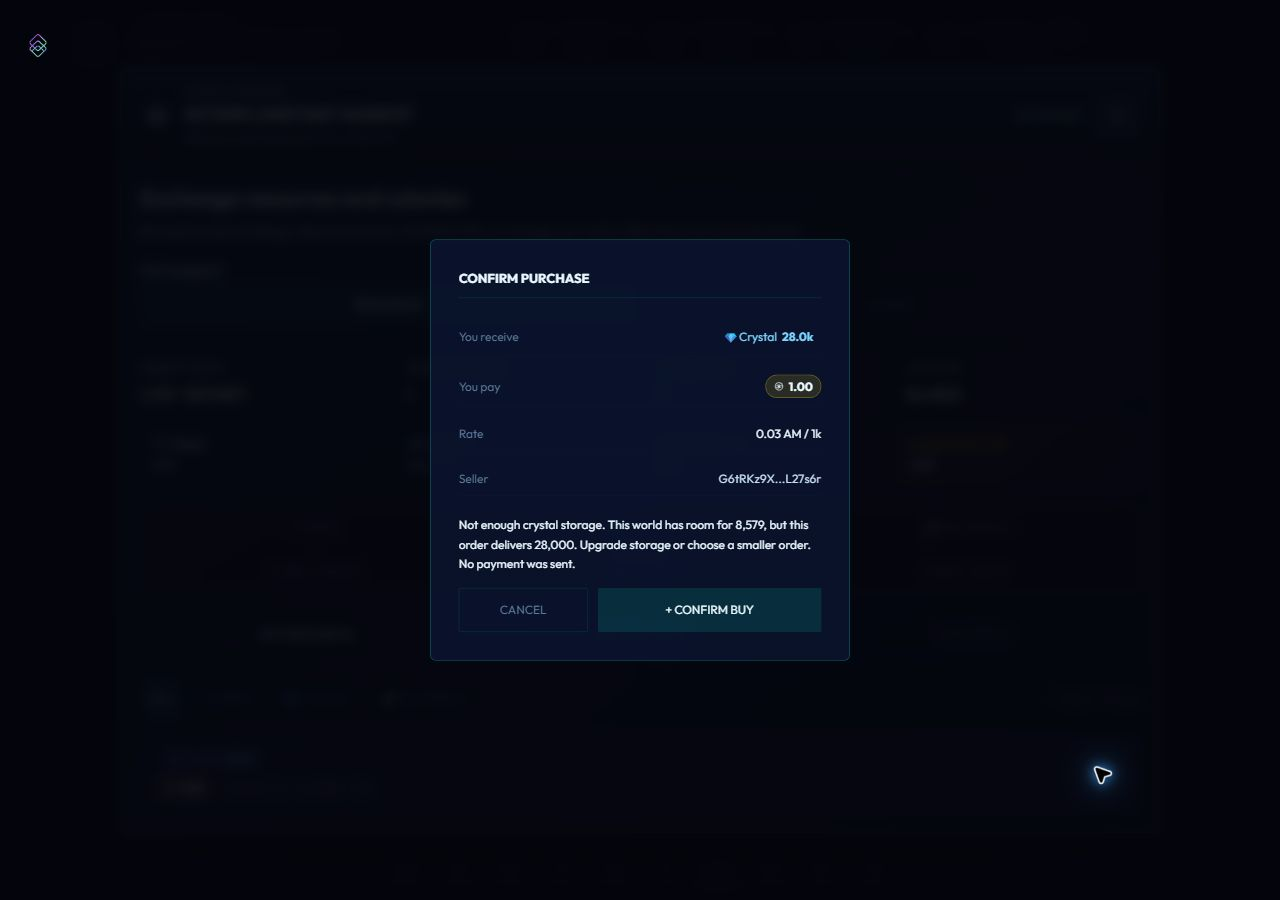
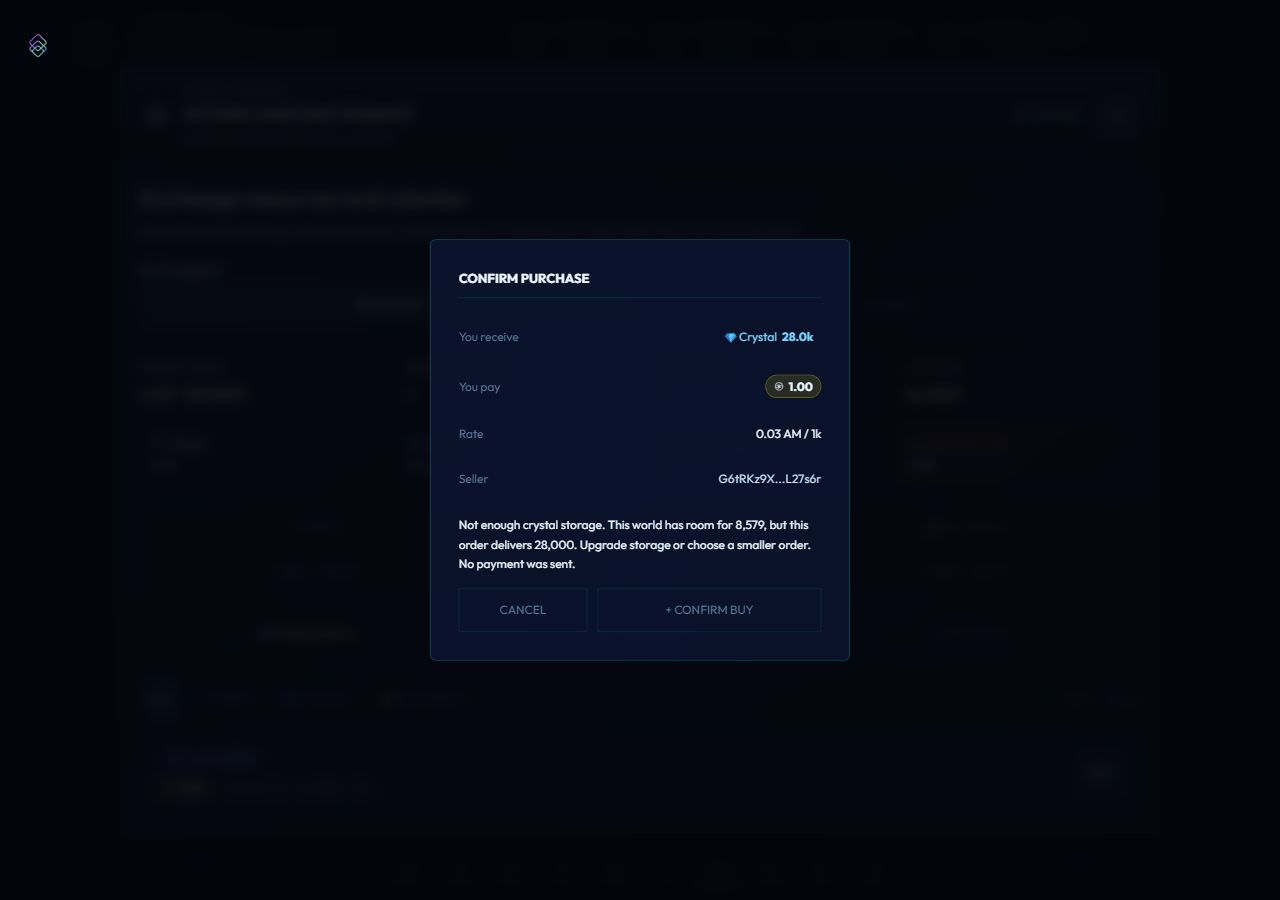
Align blocked purchase appearance with signing eligibility

Changed region(s): [[0.4688, 0.6533, 0.6562, 0.7156], [0.8438, 0.84, 0.875, 0.9022]]

diff --git a/src/Markettab.tsx b/src/Markettab.tsx
@@ -764,6 +764,7 @@ const BuyConfirmModal: React.FC<{
   const [localErr, setLocalErr] = useState<string | null>(null);
   const canAfford = antimatterBalance >= offer.priceAntimatter;
   const storageError = marketStorageError(offer.resourceType, offer.resourceAmount, resources);
+  const canConfirm = !storageError && canAfford && marketUnlocked && !submitting && !txBusy;
 
   const handleConfirm = async () => {
     if (storageError || !canAfford || !marketUnlocked || submitting || txBusy) return;
@@ -855,10 +856,10 @@ const BuyConfirmModal: React.FC<{
             disabled={Boolean(storageError) || !canAfford || !marketUnlocked || submitting || txBusy}
             style={{
               flex: 2, padding: "12px 16px", borderRadius: 2,
-              border: `1px solid ${canAfford ? "var(--cyan)" : "var(--border)"}`,
-              background: canAfford ? "rgba(0,245,212,0.12)" : "transparent",
-              color: canAfford ? "var(--cyan)" : "var(--dim)",
-              cursor: canAfford && !submitting ? "pointer" : "not-allowed",
+              border: `1px solid ${canConfirm ? "var(--cyan)" : "var(--border)"}`,
+              background: canConfirm ? "rgba(0,245,212,0.12)" : "transparent",
+              color: canConfirm ? "var(--cyan)" : "var(--dim)",
+              cursor: canConfirm ? "pointer" : "not-allowed",
               fontFamily: "Outfit, system-ui, sans-serif", fontSize: 12, letterSpacing: 0,
             }}
           >

diff --git a/docs/DEVNET_FRONTEND_GUARDS_2026-10-19.md b/docs/DEVNET_FRONTEND_GUARDS_2026-10-19.md
@@ -30,7 +30,9 @@
 
 ## Verification
 
-- Full frontend/server/API suite: 365 passed, zero failures or skipped tests.
+- Full frontend/server/API suite: 366 passed, zero failures or skipped tests.
+- Disabled purchase colours and cursor use the same readiness conditions as
+  confirmation; regression covers all 32 combinations of the five blockers.
 - TypeScript/Vite Preview builds passed.
 - 26 read-only devnet rehearsals, including 8 allowed commands and 18 blocked
   cases, using the actual frontend client builders; no wallet signing or send
